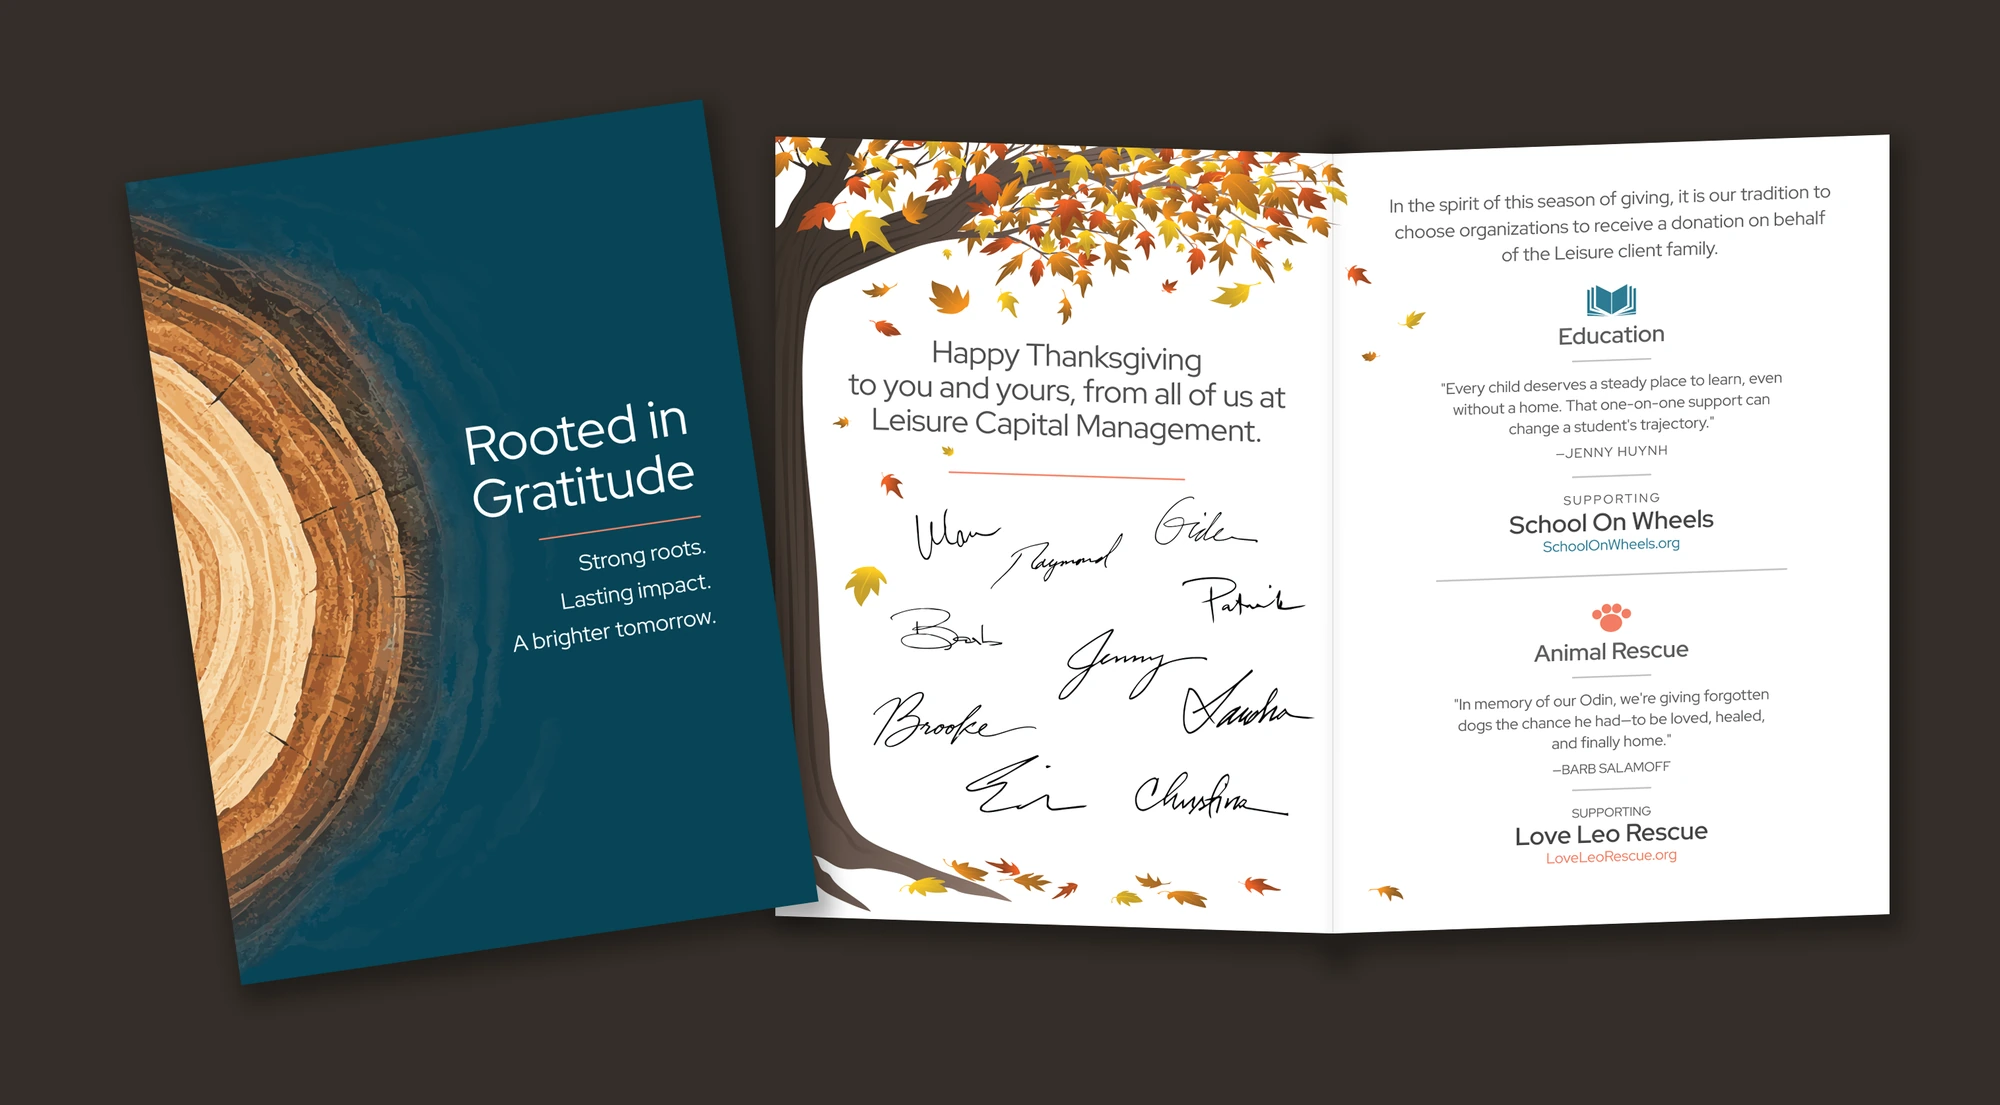
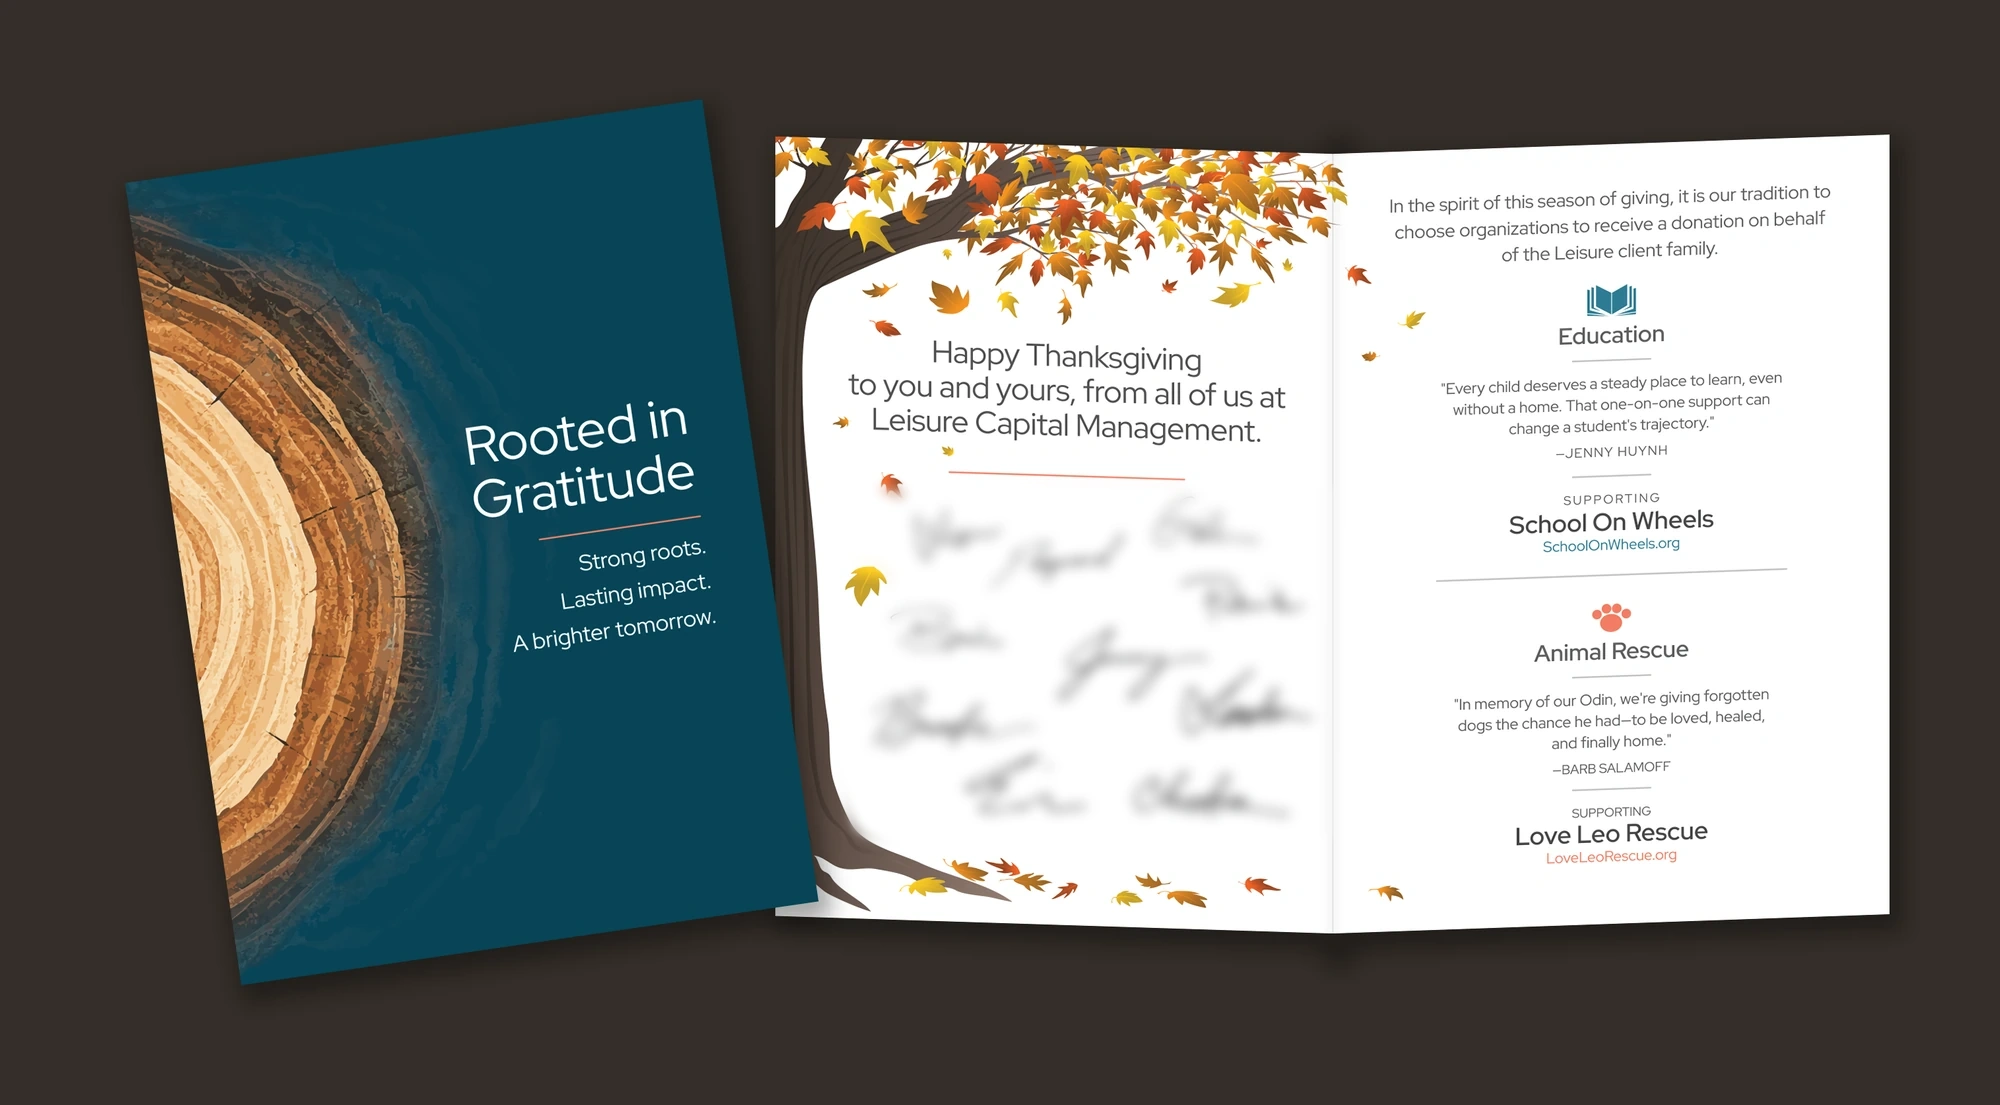
Update Creative Range captions and holiday card image
- Chronicle Books caption: bag and mug shown are constructed samples
- Bluegrass poster label: Proposal -> Client work
- Ebix booth caption: mention CoCo Vandeweghe as Ebix's sponsored ambassador
- Replace holiday-card.webp with the updated 2000x1105 image

Claude-Session: https://claude.ai/code/session_011UVXDCDN3XeH9nNZwVA3ct

diff --git a/creative-range/index.html b/creative-range/index.html
@@ -47,7 +47,7 @@
         <!-- 1. Chronicle Books bag (hero) + die cut -->
         <figure class="deliverable deliverable-feature">
           <img class="tile" src="../images/creative-range/chronicle-bag.webp" width="1640" height="1549" alt="Halloween promotional book bag for Chronicle Books, Edward Gorey series, with a black cat whose tail forms the handle, shown with a matching mug" decoding="async" />
-          <figcaption><strong>Proposal.</strong> Promotional Halloween book bag and matching mug for Chronicle Books, Edward Gorey series. Shown as a digital mockup of the assembled bag.</figcaption>
+          <figcaption><strong>Proposal.</strong> Promotional Halloween book bag and matching mug for Chronicle Books, Edward Gorey series. The bag and mug shown are constructed samples.</figcaption>
         </figure>
 
         <figure class="deliverable deliverable-feature">
@@ -70,7 +70,7 @@
         <div class="range-grid">
           <figure class="deliverable">
             <img class="tile" src="../images/creative-range/tradeshow-booth.webp" width="900" height="900" alt="Ebix Up Your Game trade show booth with a tennis player and Risk Management and Risk Compliance solutions" loading="lazy" decoding="async" />
-            <figcaption><strong>Client work.</strong> Ebix "Up Your Game" trade show booth graphics, shown on a booth mockup.</figcaption>
+            <figcaption><strong>Client work.</strong> Ebix "Up Your Game" trade show booth graphics featuring tennis star CoCo Vandeweghe, Ebix's sponsored ambassador, shown on a booth mockup.</figcaption>
           </figure>
           <figure class="deliverable">
             <img class="tile" src="../images/creative-range/direct-mail.webp" width="1200" height="827" alt="SmartOffice for Ameritas direct mail postcard, front with red umbrella and back with copy" loading="lazy" decoding="async" />
@@ -87,7 +87,7 @@
         <!-- 6. Bluegrass festival poster (centered) -->
         <figure class="deliverable deliverable-centered">
           <img class="tile" src="../images/creative-range/bluegrass-ad.webp" width="1000" height="1223" alt="Poster for the 2nd Annual Doug Daze of Summer bluegrass music festival in Wichita, Kansas, July 9, 2022, with a vertical Bluegrass headline over a stylized guitar" loading="lazy" decoding="async" />
-          <figcaption><strong>Proposal.</strong> Poster for the 2nd Annual Doug Daze of Summer Music Festival, Wichita, Kansas.</figcaption>
+          <figcaption><strong>Client work.</strong> Poster for the 2nd Annual Doug Daze of Summer Music Festival, Wichita, Kansas.</figcaption>
         </figure>
 
       </div>
